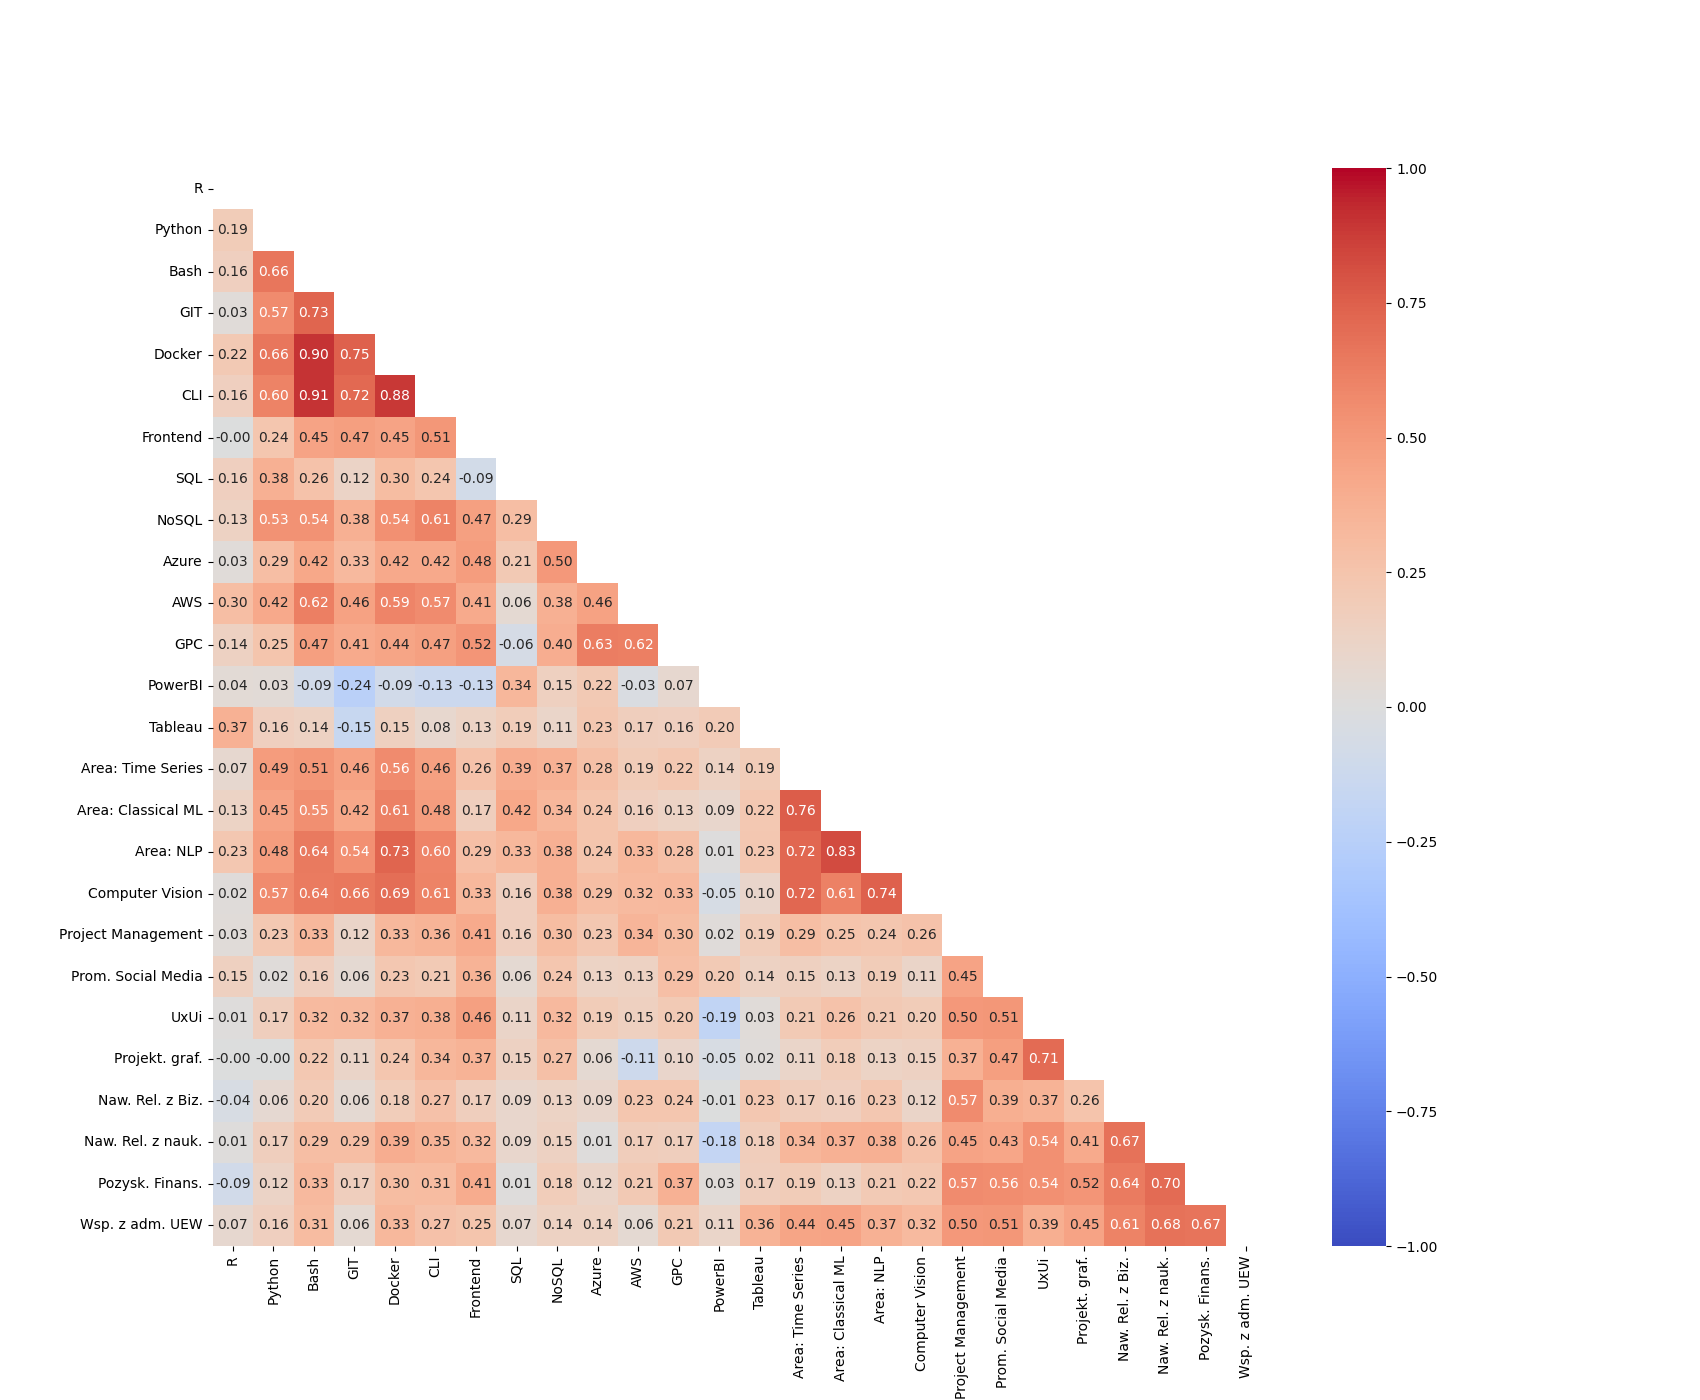
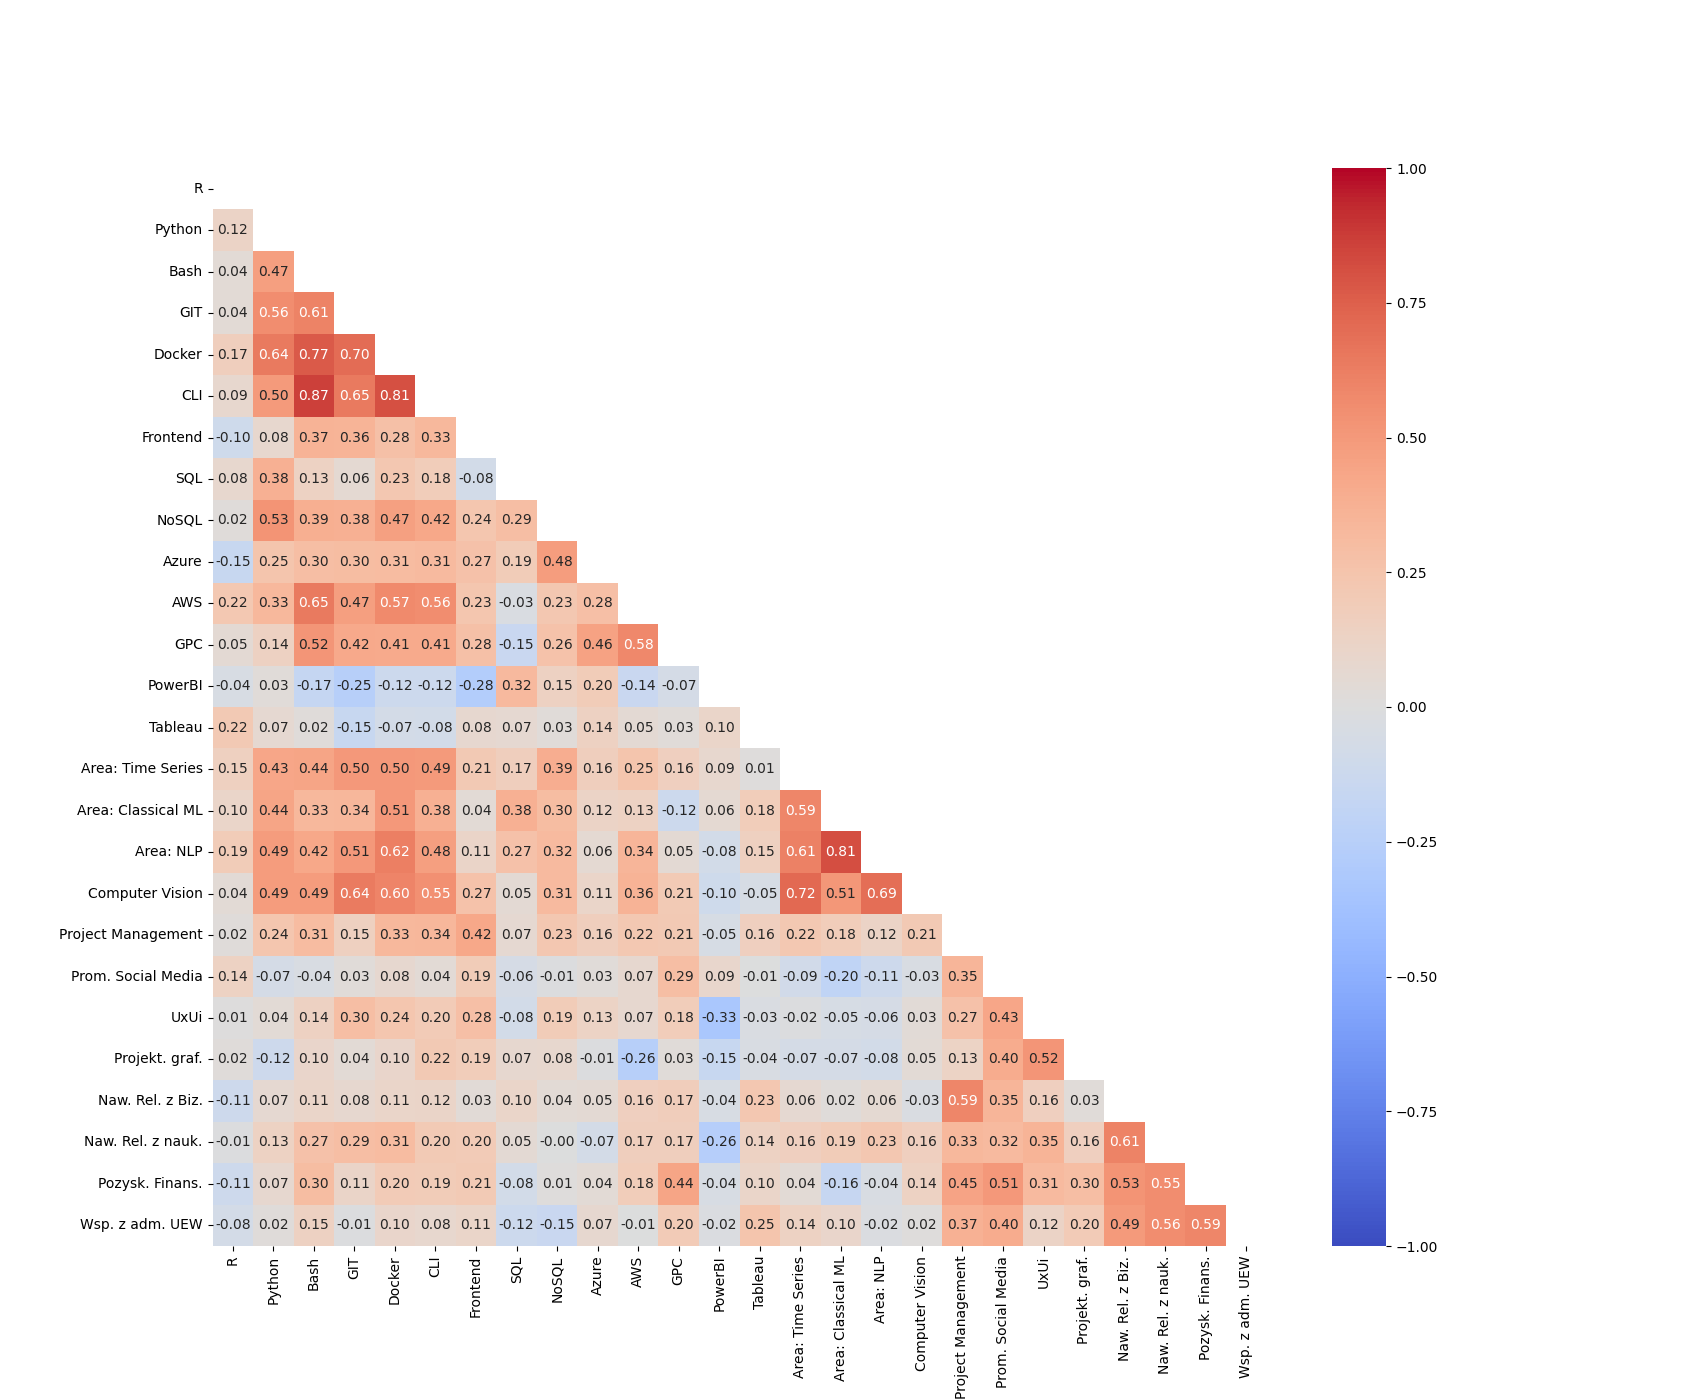
docs:analysis and clustering added

Changed region(s): [[0.1247, 0.1843, 0.7171, 0.8907], [0.1247, 0.4607, 0.1559, 0.5529]]

diff --git a/Readme.md b/Readme.md
@@ -92,15 +92,39 @@ After consulting with the client, merging mentors with the "3" skill level group
 
 ## Analysis
 
-> [!NOTE]
-> This paragraph will be updated in the future as the project develops.
-> 
+The data analysis process illustrates the pathway from the initial stage of generating a correlation matrix visualization, through deriving insights, to creating specific visualizations tailored to different stakeholder groups. Below is a description of the process, which encompasses a series of steps leading to valuable insights.
+
+### Generating a correlation matrix visualization
+The chart presents a correlation matrix that shows the relationships between various variables. Correlation values range from -1 to 1, where:
+- 1 indicates a perfect positive correlation (variables increase or decrease together).
+- -1 indicates a perfect negative correlation (one variable increases while the other decreases).
+- 0 indicates no correlation.
+<br /><br />
+
+<p align="center">
+<img
+    width="400"
+		alt="Correlation matrix visualization"
+		src="figures/corrMatrix.png">
+</p>
+
 ## Clustering
 
-> [!NOTE]
-> This paragraph will be updated in the future as the project develops.
+The final result of the conducted analyses is the dendrogram presented below, which visualizes hierarchical clustering of the data. This involves iteratively combining the closest data points, thereby creating a hierarchy of clusters. The dendrogram illustrates this hierarchy in the form of a tree, where:
 
-# 🗝 Conclusions and visualizations
+- the horizontal axis represents the IDs of WAIT organization members.
+- the vertical axis represents the distance or diversity between clusters (the higher the level, the greater the diversity).
+<br /><br />
+
+<p align="center">
+<img
+    width="400"
+		alt="Correlation matrix visualization"
+		src="figures/dendrogram.png">
+</p>
+
+Clusters are marked with different colors, which makes it easier to identify the groups. The height on the vertical axis at which two points or clusters are joined indicates the level of similarity (a lower level means greater similarity).
+# 🗝 Findings
 
 > [!NOTE]
 > This paragraph will be updated in the future as the project develops.
